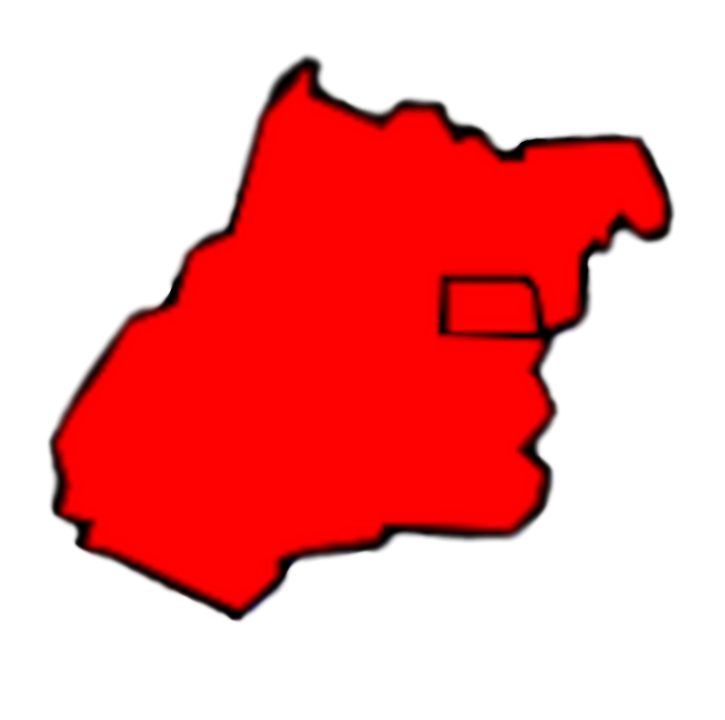
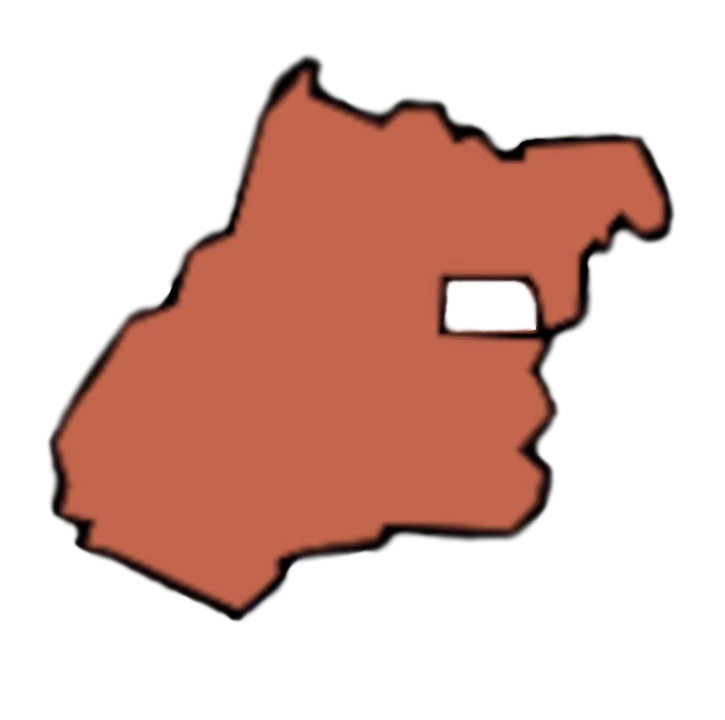
update index, image of map and map styles

diff --git a/css/style-imagemap.css b/css/style-imagemap.css
@@ -56,15 +56,24 @@
     font-size: 15px;
     border-bottom: 1px solid #fff;
 }
-
 .active, .collapsible:hover {
     background-color: rgba(87, 90, 156, 0.5);
+}
+.collapsible:after {
+    content: '\002B'; /* Unicode character for "plus" sign (+) */
+    font-size: 13px;
+    color: black;
+    float: right;
+    margin-left: 5px;
+}
+.active:after {
+    content: "\2212"; /* Unicode character for "minus" sign (-) */
 }
 
 .collapse-content {
     max-height: 0px;
     overflow: hidden;
-    transition: max-height 0.5s ease-out;
+    transition: max-height 0.2s ease-out;
 }
 .collapse-content p{
     text-align: left;

diff --git a/index.html b/index.html
@@ -3,7 +3,6 @@
 	<head>
 		<meta charset="utf-8">
 		<title>Da Ideia à Luz</title>
-		<!-- Description, Keywords and Author -->
 		<meta name="viewport" content="width=device-width, initial-scale=1.0">
 
 		<!-- Javascript files -->
@@ -48,9 +47,6 @@
 						<div class="navbar-logo">
 							<a class="navbar-brand" href=""><img class="img-responsive" src="img/logo.png" alt="Logo" /></a>
 							<a class="navbar-text" href=""><h1>Da Ideia à Luz</h1></a>
-						</div>
-						<div class="navbar-support">
-							<!-- mostrar universidades e financiadores -->
 						</div>
 					</div>
 				</nav>

diff --git a/include/map/minas_gerais.html b/include/map/minas_gerais.html
@@ -9,7 +9,7 @@
     </div>
     <div class="cidades">
         <!-- Lista de iluminadores divididos por cidades -->
-        <button onclick="collapsible();" class="collapsible">Barroso</button>
+        <button onclick="collapsible(event);" class="collapsible">Barroso</button>
         <div class="collapse-content">
             <a class="collapse-content" onclick="reloadContent('', '');" href="#"><p>João Nascimento</p></a>
             <a class="collapse-content" onclick="reloadContent('', '');" href="#"><p>Maria</p></a>
